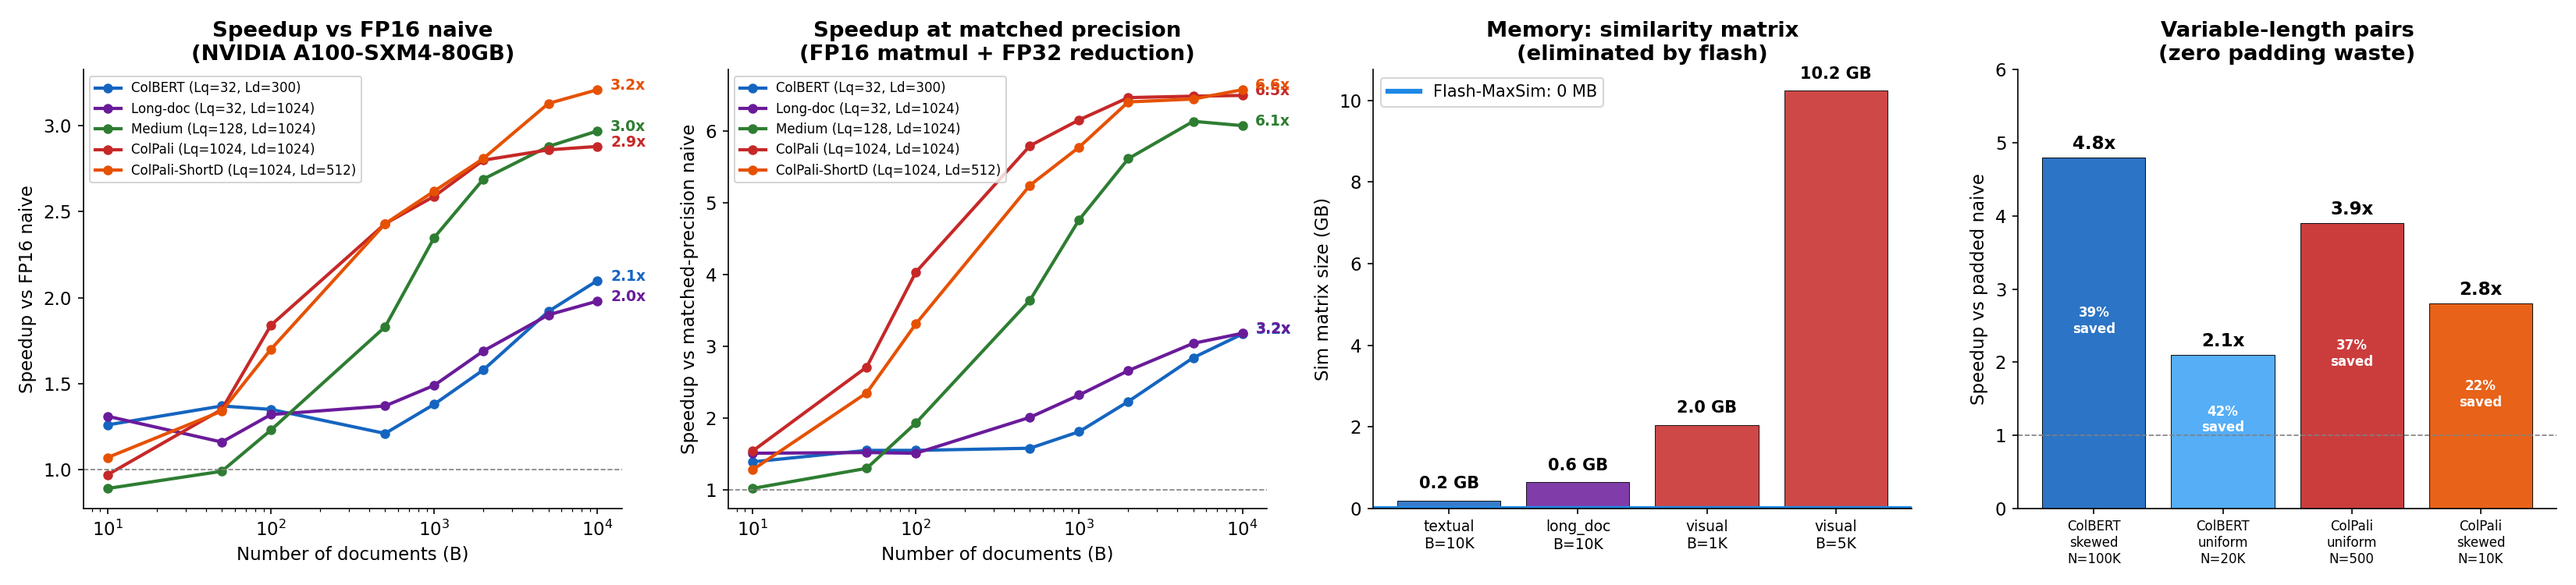
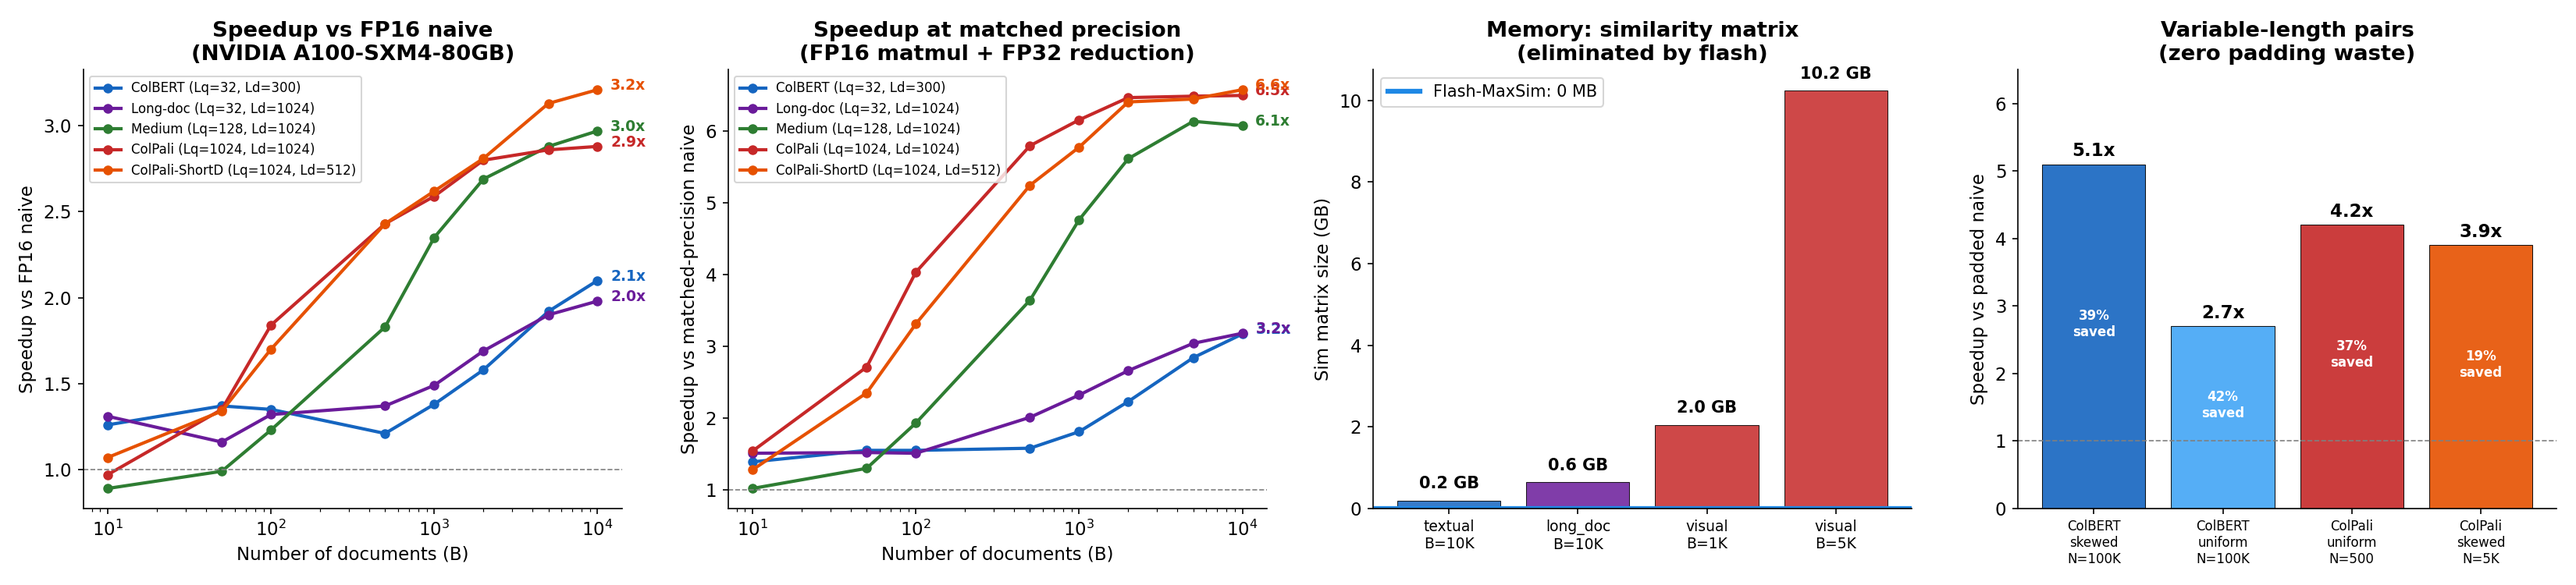
Update varlen numbers with verified benchmark results
- ColBERT-skewed N=100K: 4.8x → 5.1x
- ColPali-uniform N=500: 3.9x → 4.2x
- Added ColBERT-uniform N=100K (2.7x, 42% saved)
- Plot 4th panel reflects verified measurements

diff --git a/benchmarks/make_v020_figure.py b/benchmarks/make_v020_figure.py
@@ -102,12 +102,12 @@ ax = axes[3]
 
 labels_vl = [
     'ColBERT\nskewed\nN=100K',
-    'ColBERT\nuniform\nN=20K',
+    'ColBERT\nuniform\nN=100K',
     'ColPali\nuniform\nN=500',
-    'ColPali\nskewed\nN=10K',
+    'ColPali\nskewed\nN=5K',
 ]
-speedups_vl = [4.8, 2.1, 3.9, 2.8]
-d_saved = [39, 42, 37, 22]
+speedups_vl = [5.1, 2.7, 4.2, 3.9]
+d_saved = [39, 42, 37, 19]
 colors_vl = ['#1565C0', '#42A5F5', '#C62828', '#E65100']
 
 x = np.arange(len(labels_vl))
@@ -123,7 +123,7 @@ ax.set_title('Variable-length pairs\n(zero padding waste)', fontweight='bold')
 ax.set_xticks(x)
 ax.set_xticklabels(labels_vl, fontsize=8)
 ax.axhline(1, color='gray', ls='--', lw=0.8)
-ax.set_ylim(0, 6)
+ax.set_ylim(0, 6.5)
 
 plt.tight_layout()
 outfile = "benchmarks/flash_maxsim_benchmarks.png"

diff --git a/README.md b/README.md
@@ -67,8 +67,10 @@ scores = flash_maxsim(Q, D_packed, doc_lengths=cu_seqlens)
 
 | Regime | N | Speedup | Padding saved |
 |---|---|---|---|
-| ColBERT skewed (avg_Ld≈49) | 100K | **4.8x** | 39% |
-| ColPali variable | 500 | **3.9x** | 37% |
+| ColBERT skewed (avg_Ld≈49) | 100K | **5.1x** | 39% |
+| ColBERT uniform | 100K | **2.7x** | 42% |
+| ColPali uniform | 500 | **4.2x** | 37% |
+| ColPali skewed | 5K | **3.9x** | 19% |
 
 ### 5. INT8 index — half storage, faster, more precise
 
